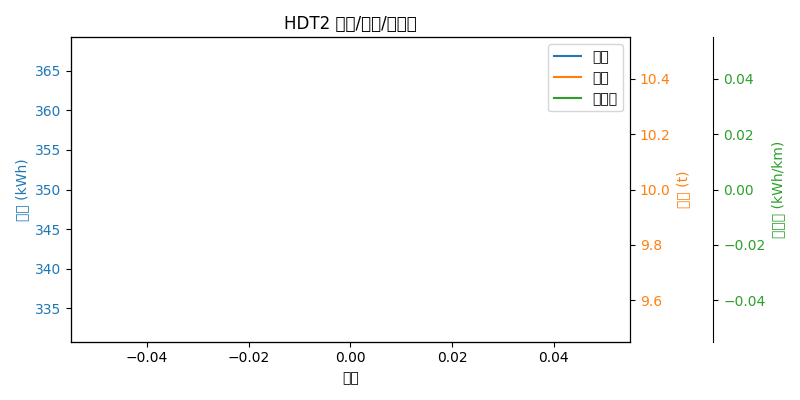
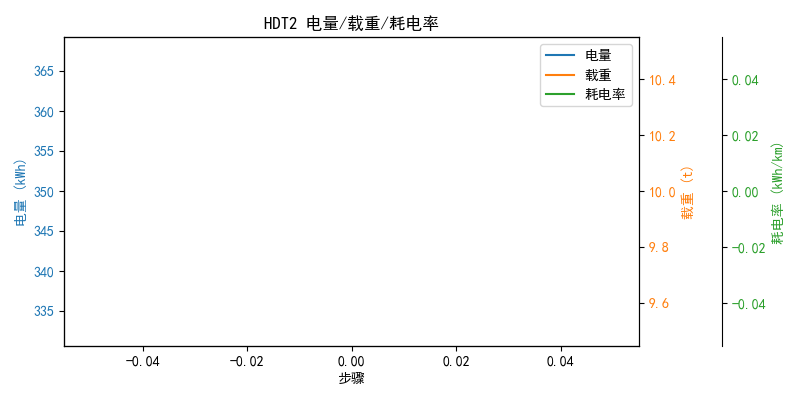
更新V2逻辑，增加可视化

diff --git a/HDT_Swapping_Optimization/src/analysis/post_analysis.py b/HDT_Swapping_Optimization/src/analysis/post_analysis.py
@@ -3,9 +3,20 @@
 import os
 import matplotlib.pyplot as plt
 import networkx as nx
+import matplotlib.font_manager as fm
 import pandas as pd
 from pyomo.environ import value
 from src.common import config_final as config
+
+
+
+for fname in ["SimHei", "Microsoft YaHei", "Arial Unicode MS", "Noto Sans CJK SC"]:
+    if any(f.name == fname for f in fm.fontManager.ttflist):
+        plt.rcParams["font.sans-serif"] = [fname]
+        break
+else:
+    plt.rcParams["font.sans-serif"] = ["DejaVu Sans"]
+plt.rcParams["axes.unicode_minus"] = False
 
 
 def plot_road_network_with_routes(model, data, filename="hdt_routing_plan.png"):
